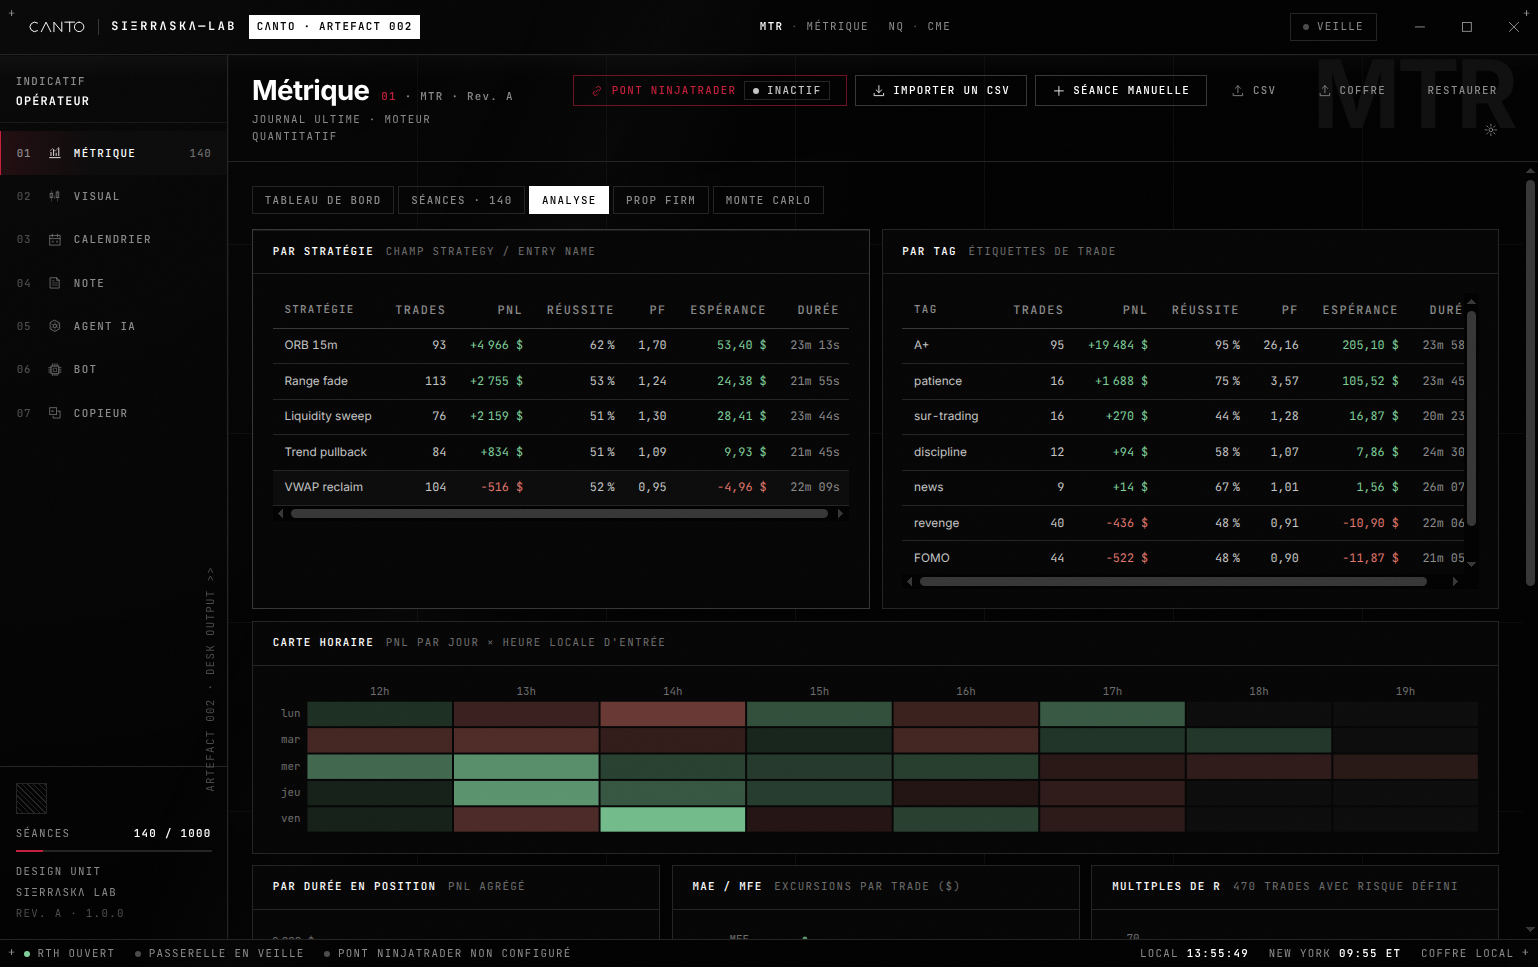
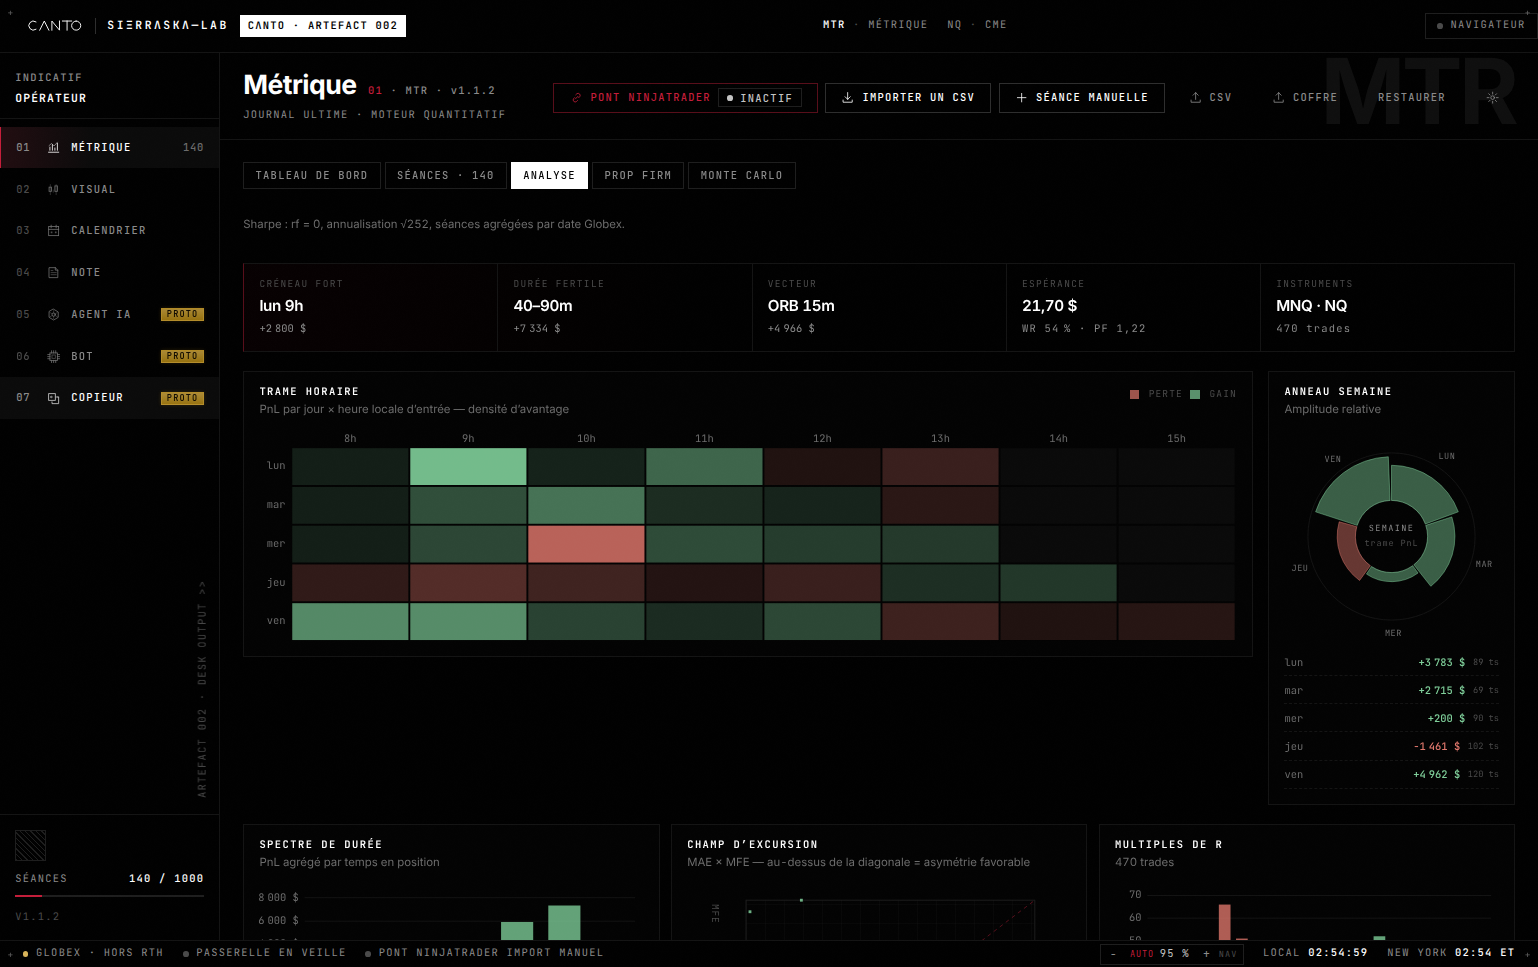
Afficher v1.1.2 sur les plaques README (plus de 1.0.0) (#24)
* fix: officialiser v1.1.2 dans le desk (plus de Rev. A / 1.0.0)

Les en-têtes de module, le copieur et desk.describe lisent package.json.
Script de recapture des plaques README (1538×967).

* fix(mc): ne plus relancer le worker Monte Carlo à chaque rendu

useDeferredValue recevait un nouvel objet à chaque paint, ce qui abortait
la simulation en boucle et laissait l’éventail vide.

* docs: plaques README recapturées en v1.1.2

Les dix PNG 1538×967 affichent v1.1.2 (en-têtes, pied de nav, copieur)
à la place de Rev. A / 1.0.0.

---------

diff --git a/src/modules/copieur/Copieur.tsx b/src/modules/copieur/Copieur.tsx
@@ -4,6 +4,7 @@ import { ModuleContent, ModuleHeader } from '@/app/Shell';
 import { Button, Field, Panel, Stat, Tag, Toggle, cx } from '@/design/primitives';
 import { PROP_FIRMS } from '@/engine/propfirm';
 import { plural } from '@/lib/format';
+import { APP_VERSION } from '@/lib/version';
 import type { CopierAccount } from '@/store/db';
 import { COPIER_CHANGELOG, replicatedQty, useCopier } from '@/store/copier';
 import s from './copieur.module.css';
@@ -59,7 +60,7 @@ export default function Copieur() {
               <Stat small label="Pont NinjaTrader" value="Hors ligne" hint="transport WebSocket non connecté" />
               <Stat small label="Maîtres · suiveurs" value={`${masters.length} · ${followers.length}`} hint={plural(followers.filter((f) => f.enabled).length, 'suiveur actif', 'suiveurs actifs')} tone="ice" />
               <Stat small label="Budget latence" value={`${config.latencyBudgetMs} ms`} hint="alerte au-delà" tone="gold" />
-              <Stat small label="Version" value={COPIER_CHANGELOG[0]?.version ?? '1.0.0'} hint={`canal ${config.channel}`} />
+              <Stat small label="Version" value={COPIER_CHANGELOG[0]?.version ?? APP_VERSION} hint={`canal ${config.channel}`} />
             </div>
 
             <div className={s.banner}>

diff --git a/src/app/Shell.tsx b/src/app/Shell.tsx
@@ -6,6 +6,7 @@ import { Modal } from '@/design/Modal';
 import { Button } from '@/design/primitives';
 import { SESSION_CAPACITY } from '@/engine/types';
 import { desk, isDesk } from '@/lib/desk';
+import { APP_VERSION } from '@/lib/version';
 import { ET_ZONE } from '@/lib/time';
 import { useJournal } from '@/store/journal';
 import { useSettings } from '@/store/settings';
@@ -56,7 +57,7 @@ export function Shell({ children }: { children: ReactNode }) {
   const bridgeLive = !!bridgeStatus?.enabled && !!bridgeStatus.folder && !bridgeStatus.error;
   const active = TABS.find((t) => t.id === tab);
   const [maximized, setMaximized] = useState(false);
-  const [appVersion, setAppVersion] = useState('1.1.2');
+  const [appVersion, setAppVersion] = useState(APP_VERSION);
 
   useEffect(() => {
     if (!desk) return;
@@ -280,7 +281,7 @@ export function ModuleHeader({ tab, actions }: { tab: TabId; actions?: ReactNode
         <h1>
           {def.label}
           <small>
-            <b>{def.index}</b> · {def.code} · Rev. A
+            <b>{def.index}</b> · {def.code} · v{APP_VERSION}
           </small>
         </h1>
         <span className={s.moduleTagline}>{def.tagline}</span>

diff --git a/src/store/agent.ts b/src/store/agent.ts
@@ -5,6 +5,7 @@ import { toolKind, toolSchemas } from '@/engine/agent/tools';
 import { takeToolCalls, type DeskPorts } from '@/engine/agent/ports';
 import { desk, type OrchestratorRequest, type OrchestratorStatus } from '@/lib/desk';
 import { uid } from '@/lib/id';
+import { APP_VERSION } from '@/lib/version';
 import { useCalendar } from './calendar';
 import { db, type AgentMessage } from './db';
 import { useJournal } from './journal';
@@ -96,7 +97,7 @@ export const useAgent = create<AgentState>((set, get) => ({
       unsubscribeRequests = api.orchestrator.onRequest(async (req: OrchestratorRequest) => {
         const log = (ok: boolean, detail?: string) => pushLog(set, get, { direction: 'in', method: req.method, ok, detail });
         if (req.method === 'desk.describe') {
-          api.orchestrator.respond(req.id, req.clientId, { artefact: 'CΛNTO', version: '1.0.0', tools: toolSchemas() });
+          api.orchestrator.respond(req.id, req.clientId, { artefact: 'CΛNTO', version: APP_VERSION, tools: toolSchemas() });
           log(true);
           return;
         }

diff --git a/src/store/copier.ts b/src/store/copier.ts
@@ -32,10 +32,11 @@ export const DEFAULT_COPIER: CopierConfig = {
 
 export const COPIER_CHANGELOG: { version: string; date: string; items: string[] }[] = [
   {
-    version: '1.0.0',
-    date: '2026-09-16',
+    version: '1.1.2',
+    date: '2026-09-17',
     items: [
-      'Grammaire visuelle Lab v1.0 — précision lithographique, LED unique',
+      'Alignement desk v1.1.2 — badge CONCEPTION, kill switch, aucun ordre',
+      'Grammaire visuelle Lab — précision lithographique, LED unique',
       'Modèle maître / suiveurs, sizing fixe · ratio · risque, NQ ↔ MNQ',
       'Filtres : fenêtre horaire, blackout catalyseurs, marge plancher',
       'Spécification du pont NinjaTrader (docs/PONT-NINJATRADER.md)',

diff --git a/src/modules/metrique/MonteCarloView.tsx b/src/modules/metrique/MonteCarloView.tsx
@@ -36,7 +36,7 @@ export function MonteCarloView() {
   const abortRef = useRef<AbortController | null>(null);
 
   const sample = useMemo(() => (level === 'seances' ? sessions.map((x) => x.pnl) : trades.map((x) => x.pnl)), [level, sessions, trades]);
-  const params = useDeferredValue({ runs, horizon, seed, ruin, target });
+  const params = useDeferredValue(useMemo(() => ({ runs, horizon, seed, ruin, target }), [runs, horizon, seed, ruin, target]));
   const effective = clampMonteCarlo(params.runs, params.horizon === '' ? sample.length : params.horizon);
 
   useEffect(() => {

diff --git a/src/lib/version.ts b/src/lib/version.ts
@@ -1,0 +1,4 @@
+import pkg from '../../package.json';
+
+/** Version affichée (package.json). Une seule source. */
+export const APP_VERSION: string = pkg.version;
